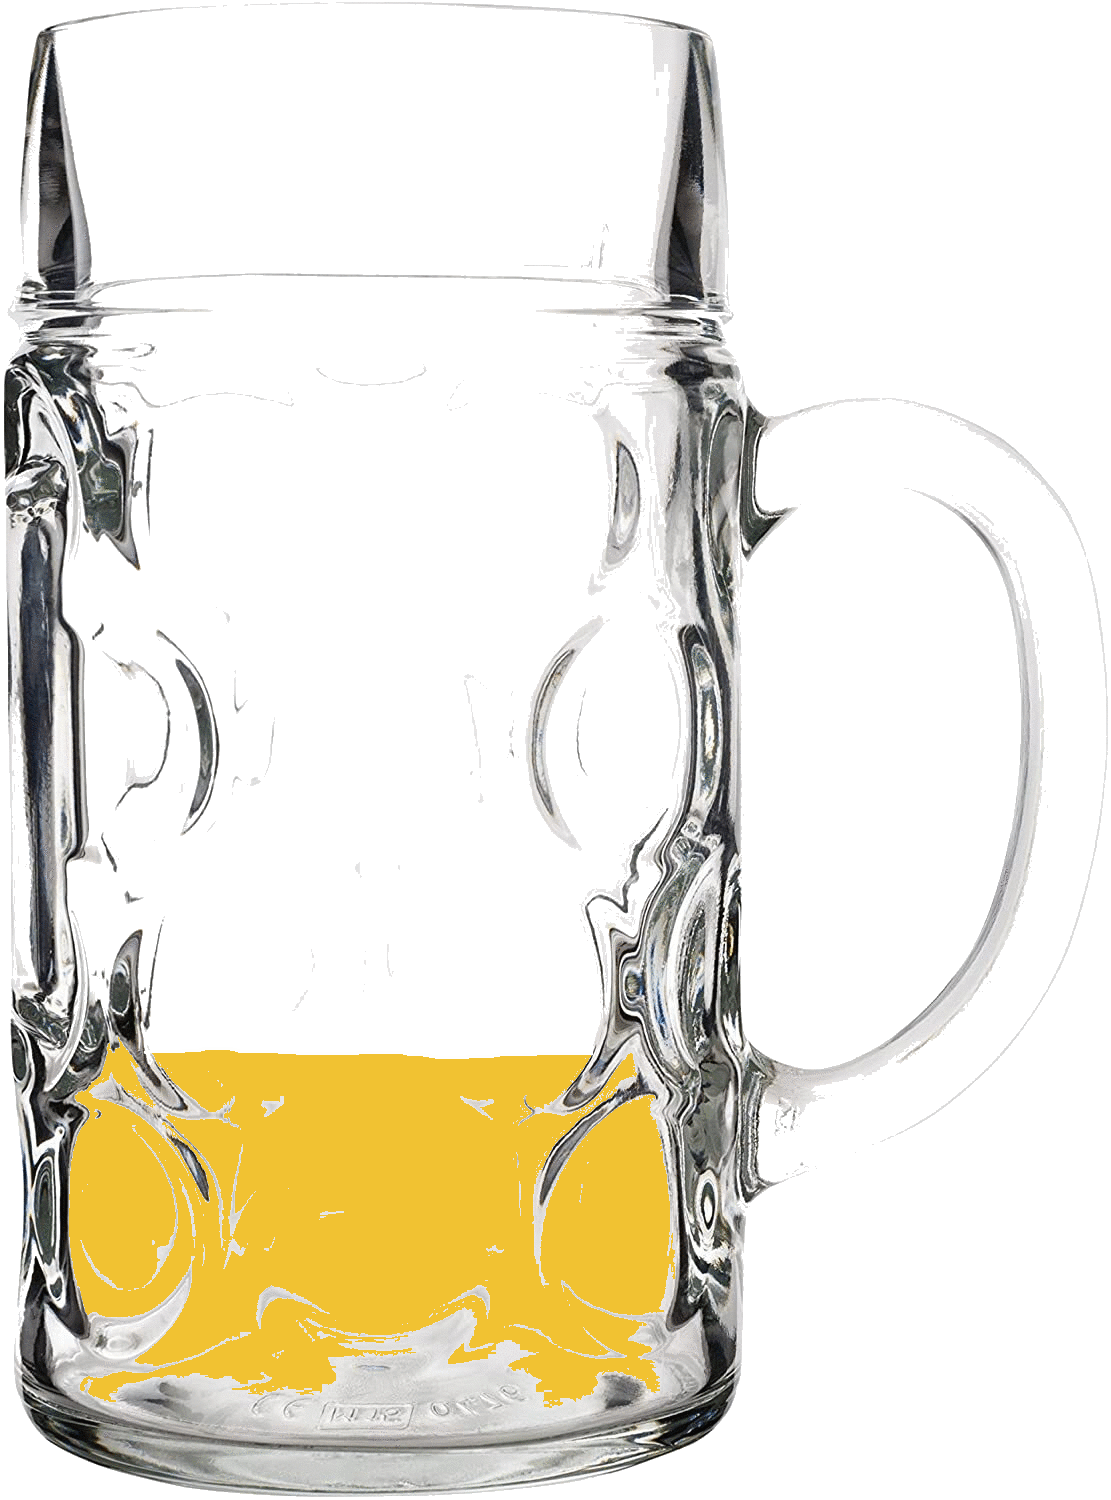
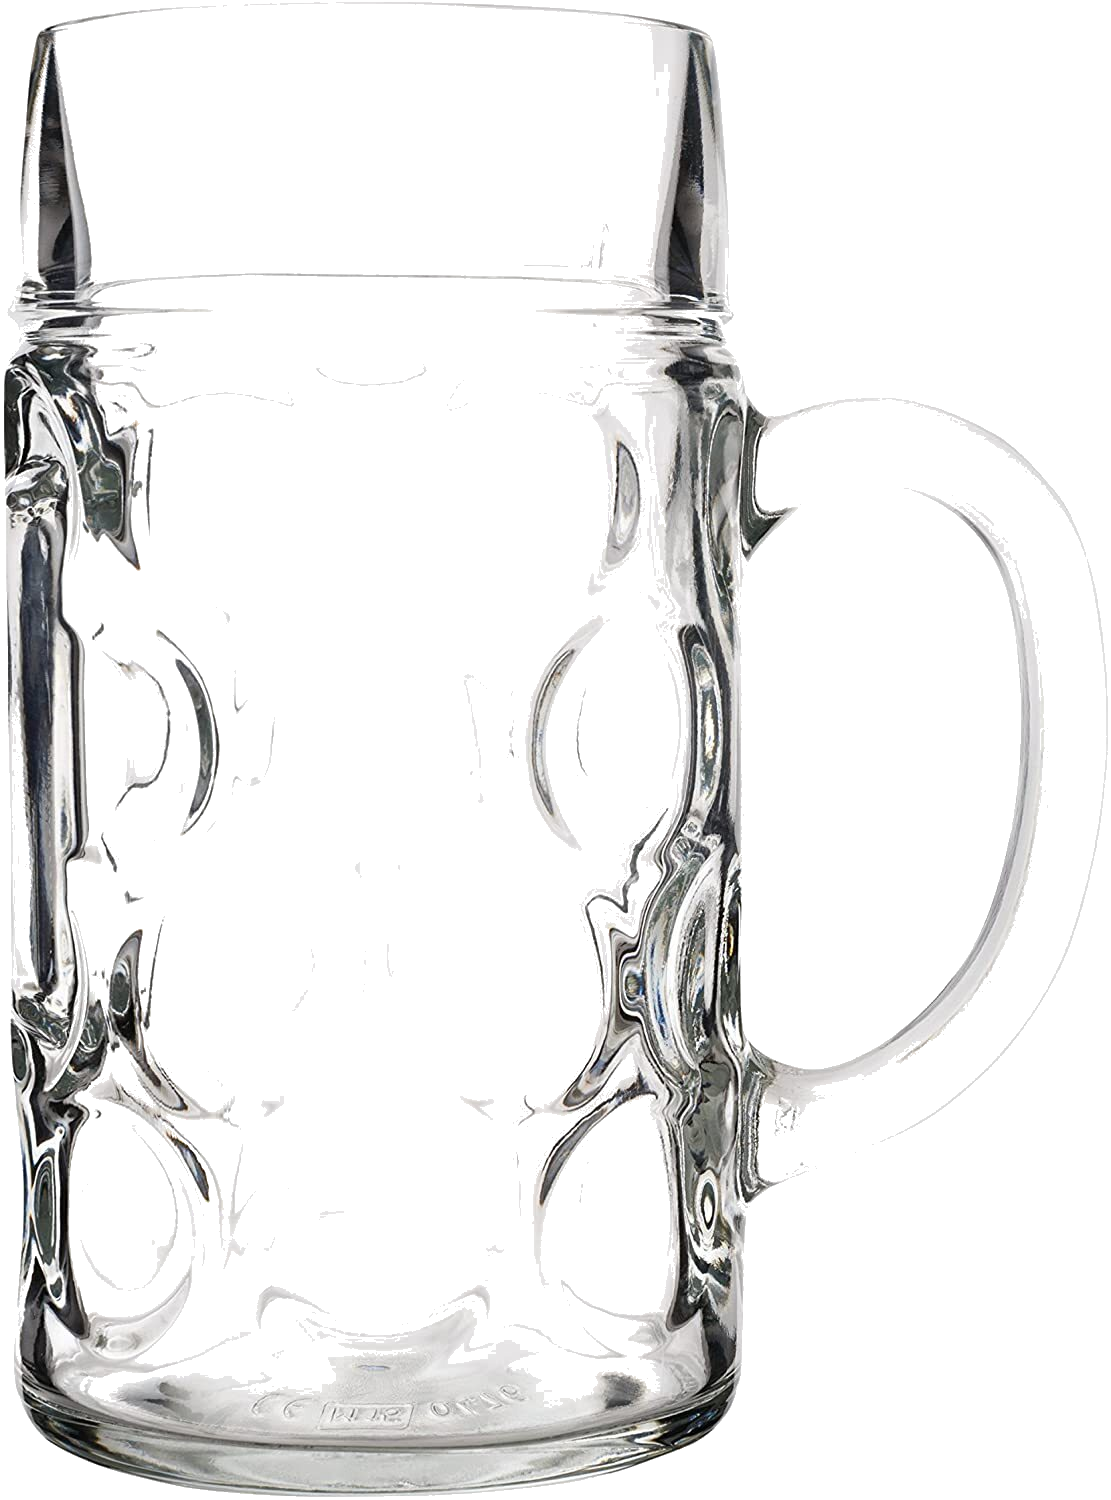
transition plugins

Changed region(s): [[0.0612, 0.6747, 0.6121, 0.9507]]

diff --git a/src/components/Sidebar.vue b/src/components/Sidebar.vue
@@ -133,17 +133,21 @@ export default class Sidebar extends Vue {
   background-size: 100% 100%;
   overflow: hidden;
 
-  transition: 0.5s;
+  -webkit-transition: all 0.5s;
+  -moz-transition: all 0.5s;
+  transition: all 0.5s;
 }
 .drinkboxUnchecked {
-  background: url("~@/assets/logo.png");
+  background: url("~@/assets/bier-leer.png");
   height: 20vh;
   width: 10vw;
   display: inline-block;
   background-size: 100% 100%;
   overflow: hidden;
 
-  transition: 0.5s;
+  -webkit-transition: all 0.5s;
+  -moz-transition: all 0.5s;
+  transition: all 0.5s;
 }
 .drinkboxText {
   margin-top: 10vh;
